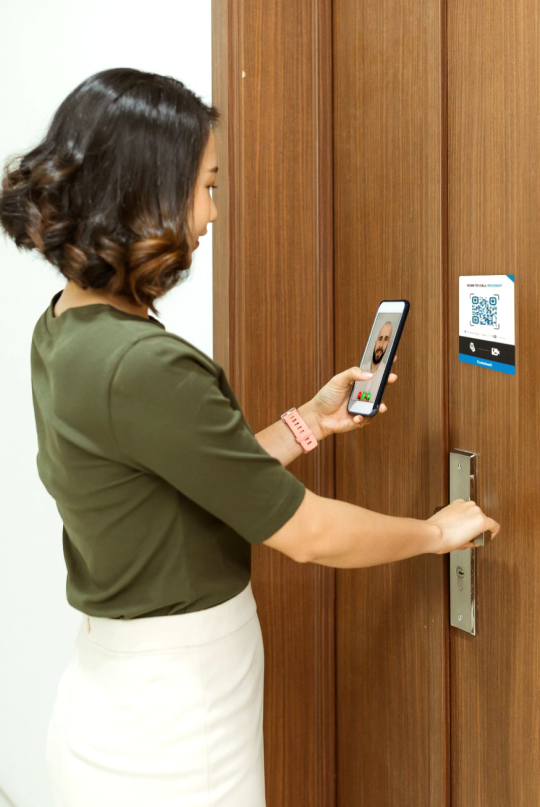
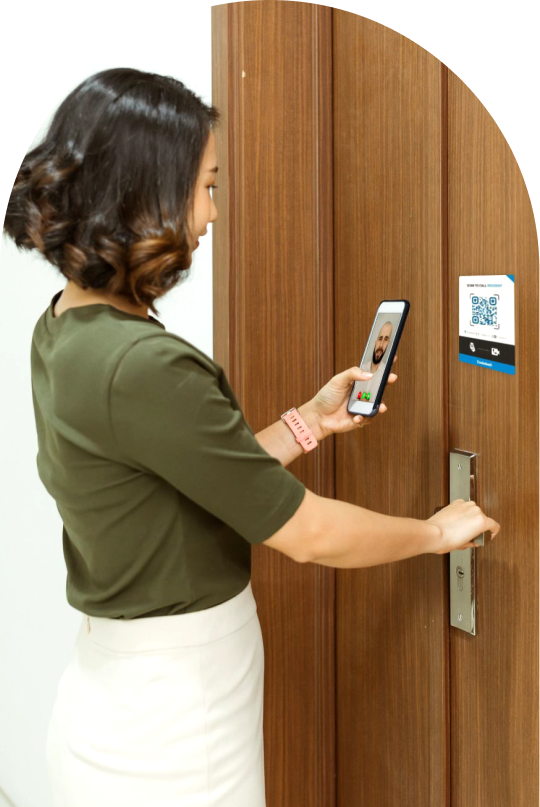
home page updated

Changed region(s): [[0.563, 0.0, 1.0, 0.3098], [0.0, 0.1859, 0.0593, 0.2788], [0.3852, 0.0, 0.4444, 0.031]]

diff --git a/newStyle.css b/newStyle.css
@@ -314,23 +314,22 @@ li{
 }
 #home-img{
     position: relative;
-    border-start-end-radius: 12em;
-    border-top-left-radius: 12em;
-    max-width:70%;
     
-
+    max-width:70%;   
+}
+#homes-img img:nth-child(2){
+    position: absolute;
+    top: 39%;
+    left: 60%;
+    max-width:40%;
     
 }
-.right img:nth-child(2){
+#homes-img img:nth-child(3){
     position: absolute;
-    top: 45%;
-    left: 65%;
+    top: 10%;
+    left: 78%;
     max-width:30%;
-    border: 0.2em solid white;
-    border-start-end-radius:50%;
-    border-top-left-radius: 0.1em;
-    border-bottom-left-radius: 50%;
-    border-bottom-right-radius: 50%;
+    
 }
 .left h1 {
     color: var(--text-color);
@@ -379,15 +378,7 @@ p{
  
         height: 60px;
     }
-    .hero img{
-        max-width: 80% !important;
-    }
-    #homes-img {
-        max-width: 55% !important;
-    }
-    #homes-img img:nth-child(2) {
-        max-width: 30% !important;
-    }
+   
 }
 @media screen and (max-width: 986px) {
     .left {

diff --git a/home.html b/home.html
@@ -172,11 +172,13 @@
             <div class="right flex" style="min-width: 300px;"  id="homes-img">
                 <img id="home-img" src="/assets/img/homebanner.png" alt="" >
                 <img class="home-img1" src="/assets/img/homebanner1.png" alt="" data-aos="zoom-in" data-aos-duration="300">
+                <img class="home-img2" src="/assets/img/homebanner2.png" alt="" data-aos="zoom-in" data-aos-duration="300">
+
            </div>
         </section>
     </div>
-
-
+    
+    
 
     <!-- product feature -->
     <section id="Feature">
